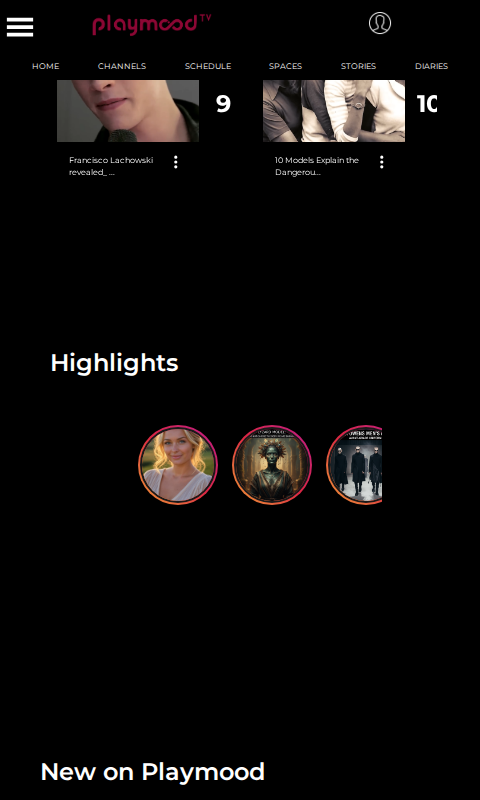
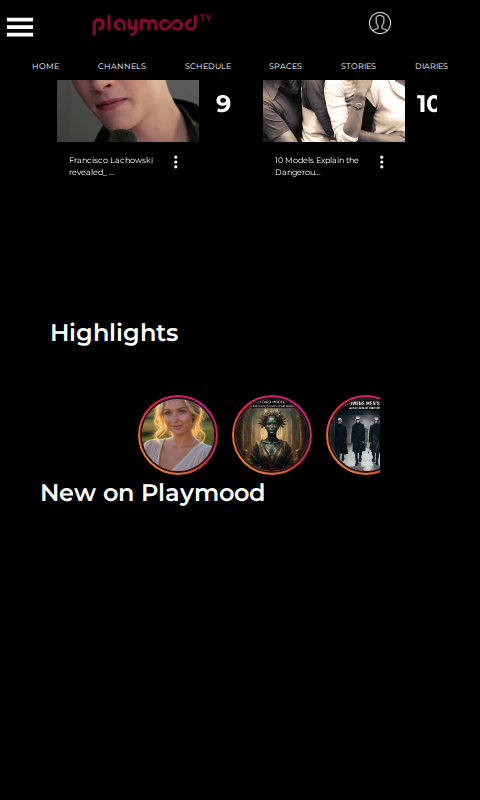
Fix: Improve mobile view for highlights slider and skeleton
This change addresses two issues with the highlights slider on mobile devices:

1. The slider was not taking up the full width of the screen, making the slides appear small. This has been fixed by creating a new responsive container that ensures the slider is full-width on mobile.
2. The skeleton loader for the highlights was displaying a title, which is not present in the final design. This has been fixed by removing the skeleton title, which also removes the unwanted space below the highlight circles.

Changed region(s): [[0.0625, 0.4062, 0.8125, 0.6562], [0.0625, 0.9375, 0.5625, 1.0]]

diff --git a/src/pages/Home.jsx b/src/pages/Home.jsx
@@ -443,18 +443,6 @@ const VideoCategory = styled.div`
   }
 `;
 
-const VideoCategoryHighlights = styled.div`
-  width: 92%;
-  margin: 20px;
-  display: flex;
-  flex-direction: column;
-  height: 380px;
-  min-height: 220px;
-  box-sizing: border-box;
-  z-index: 210;
-  padding-top: 30px;
-`;
-
 const VideoCategoryResponsive = styled(VideoCategory)`
   @media screen and (max-width: 495px) {
     height: auto;
@@ -462,10 +450,23 @@ const VideoCategoryResponsive = styled(VideoCategory)`
   }
 `;
 
-const VideoCategoryHighlightsResponsive = styled(VideoCategoryHighlights)`
+const VideoCategoryHighlights = styled(VideoCategory)`
+  height: 220px;
+  min-height: 220px;
+  padding-top: 30px;
+
+  @media screen and (max-width: 768px) {
+    height: 180px;
+    min-height: 180px;
+  }
+
   @media screen and (max-width: 495px) {
-    height: auto;
-    padding-bottom: 20px;
+    height: 150px;
+    min-height: 150px;
+    padding-top: 10px;
+    width: 100%;
+    margin: 0;
+    padding: 0 20px;
   }
 `;
 
@@ -859,10 +860,10 @@ function HomeContent({
             <Videocategorytitle>Top 10</Videocategorytitle>
             <SliderTopTen />
           </VideoCategory>
-          <VideoCategoryHighlightsResponsive>
+          <VideoCategoryHighlights>
             <Videocategorytitle>Highlights</Videocategorytitle>
             <HighlightsHome />
-          </VideoCategoryHighlightsResponsive>
+          </VideoCategoryHighlights>
           <VideoCategoryResponsive>
             <Videocategorytitle>New on Playmood</Videocategorytitle>
             <SliderNew />

diff --git a/src/components/HighlightsHome.jsx b/src/components/HighlightsHome.jsx
@@ -103,7 +103,6 @@ const HighlightsHome = () => {
         {Array.from({ length: 8 }).map((_, i) => (
           <SkeletonHighlightItem key={i}>
             <SkeletonHighlightCircle className="circle" />
-            <SkeletonText width="50px" />
           </SkeletonHighlightItem>
         ))}
       </SkeletonHighlightsWrapper>
